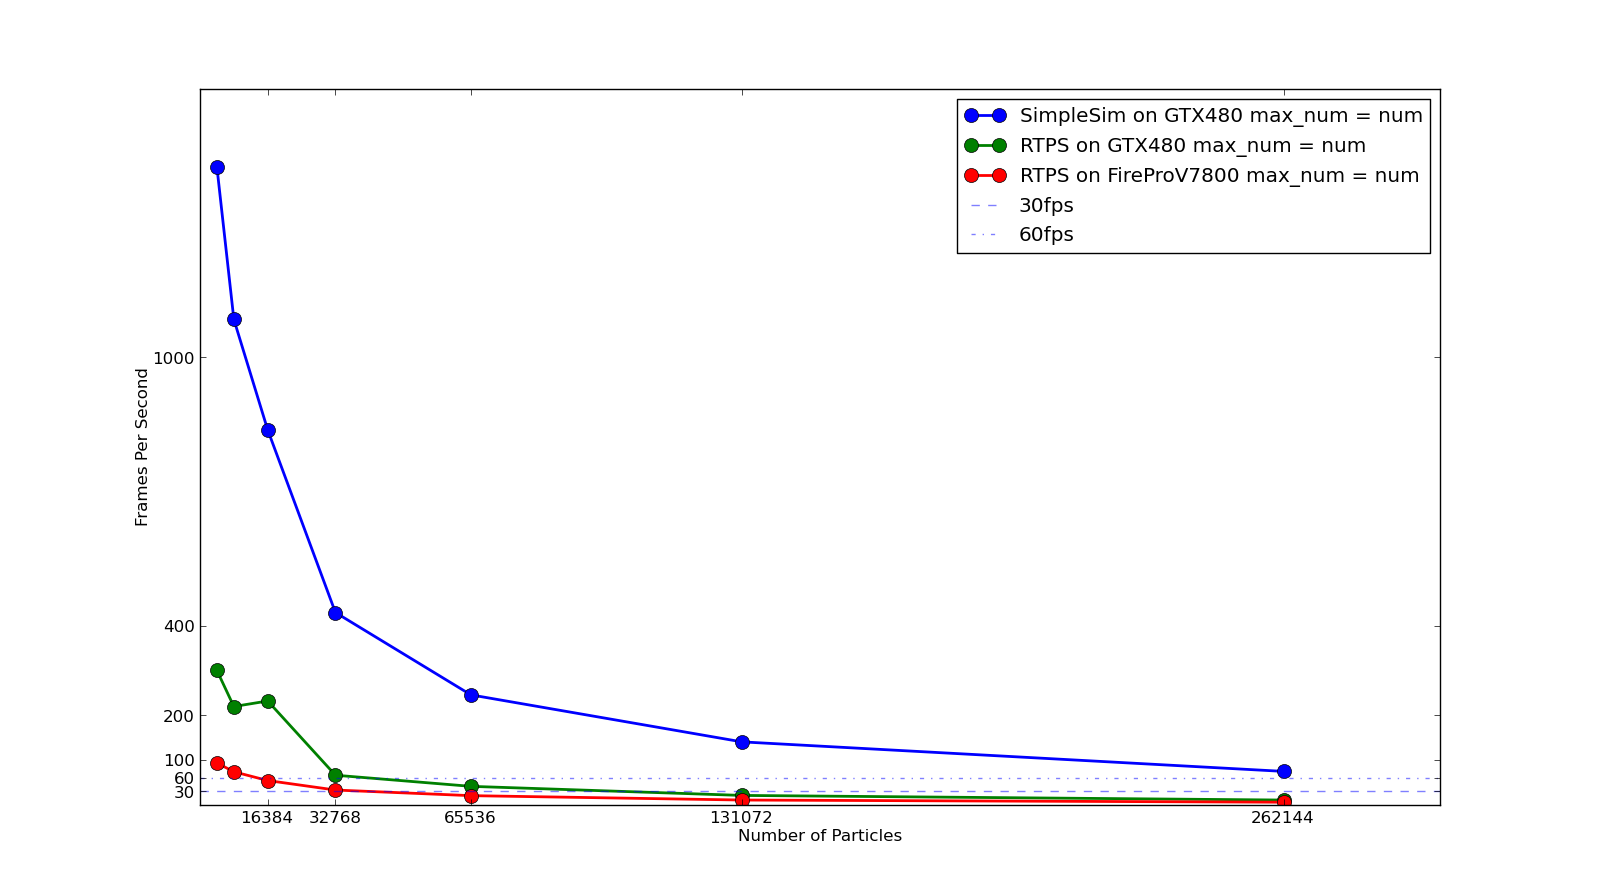
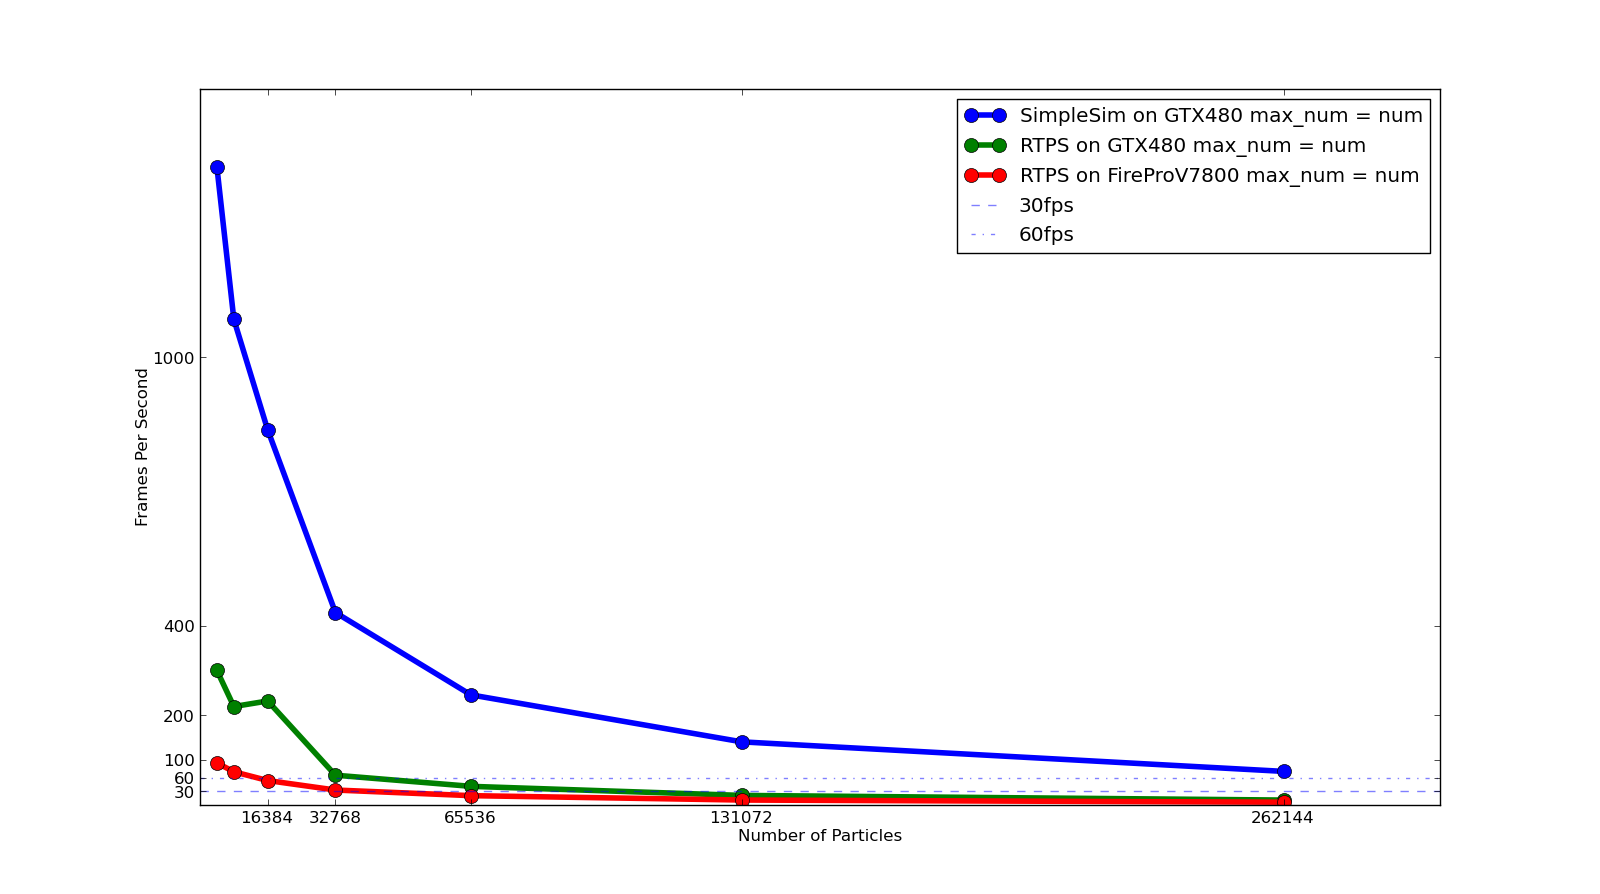
illustrative examples upgrade

diff --git a/fsutemplate/chapter_results.tex b/fsutemplate/chapter_results.tex
@@ -32,21 +32,22 @@ timings, when using fps a higher number is desirable while when measuring in
 milliseconds a lower number is preferred.
 
 \pagebreak
+\clearpage
 
 \begin{figure}[!htc]
  		\centering
-        \subfloat[maximum number of particles equal to number of particles]{\label{fig:fps_num}\includegraphics[scale=0.4]{figures/maxnum_eq_num_fps.png}}
-        \\
-        \subfloat[maximum number of particles equal to 1 million]{\label{fig:fps_1mill}\includegraphics[scale=0.4]{figures/maxnum_eq_1mill_fps.png}}
-        \caption{Frame Rates}
-        \label{fig:fps}
+        \includegraphics[scale=0.45]{figures/maxnum_eq_num_fps.png}
+        \caption{ {\footnotesize Performance of RTPS compared with SimpleSim. Here the maximum
+        particle setting for RTPS is the same as the number of particles used
+        for timing}}
+        \label{fig:fps_num}
 \end{figure}
 
-\pagebreak
 
 For the timings in \ref{fig:fps_num} the only parameter varied is the maximum number of particles.
 For each case the maximum number of particles is emitted and the timing of each
 function call is averaged over 1000 iterations.
+
 
 One logical use scenario would involve setting a large maximum number of
 particles and only using a relatively small subset of them. This will make the
@@ -55,6 +56,17 @@ user to get a more detailed simulation. It turns out that this use case is much
 more efficient than setting the maximum number of particles to the amount to be
 used as can be seen in Figure \ref{fig:fps_1mill}.
 
+
+\begin{figure}[!htc]
+ 		\centering
+        \includegraphics[scale=0.45]{figures/maxnum_eq_1mill_fps.png}
+        \caption{ {\small Performance of RTPS with the maximum number of particles
+        setting equal to 1 million. The timings for RTPS are collected using
+        the given number of particles.}}
+        \label{fig:fps_1mill}
+\end{figure}
+
+\pagebreak
 One can see from Figure \ref{fig:kernel_time} that the Density and Force calculations are by far
 the most expensive routines. These routines have the most memory accesses, and
 the more neighbors that each particle must calculate the more memory accesses
@@ -89,6 +101,9 @@ for each card, with the sort contributing more on the AMD hardware.
         \caption{ Proportion of GPU timings for the most expensive kernels on each card }
         \label{fig:pies}
 \end{figure}
+
+\pagebreak
+\clearpage
 
 \section{Data Structures}
 The data structures used on the GPU are given as follows:
@@ -143,7 +158,7 @@ provided valuable feedback, crash reports and even demos.\footnote{ \url{http://
 
 \begin{figure}[!htc]
  		\centering
-		\includegraphics[scale=0.5]{figures/youtube.png}
+		\includegraphics[scale=0.75]{figures/youtube.png}
         \caption{ Artist demo }
 		\label{fig:mpan}
 \end{figure}
@@ -154,43 +169,82 @@ integration becomes tighter it is expected that more developers will be willing
 and able to help.
 
 \pagebreak
-\clearpage
+%\clearpage
 
-\section{Screen Shots}
+\section{Illustrative Examples}
 
-Selected screen shots of the Blender Game Engine with the RTPS library in action.
+The following figures demonstrate various possible simulations using the RTPS
+framework inside the Blender Game Engine. Figure \ref{fig:dam_break} shows a
+simple dam break simulation with collision against boxes inside the domain.
+Here relatively few particles are used and the simulation runs at 60fps.
 
+%\begin{figure}[H]
 \begin{figure}[!htc]
  		%\centering
-		\includegraphics[scale=0.17]{figures/dam_break.png}
-        \caption{ Dam break with 65k particles maximum }
+		\includegraphics[scale=0.4]{figures/dam_break.png}
+        \caption{ A Dam break simulation. The maximum number of particles is set to 65k.
+        Physical parameters are set as follows: Gravity = -9.8, Gas
+        Constant = 1.0, Viscosity = .001, Velocity Limit = 600, XSPH = .2}
 		\label{fig:dam_break}
 \end{figure}
 
 \pagebreak
+\clearpage
+
+Figures \ref{fig:flood1} and \ref{fig:flood2} show a water flooding simulation where
+over 100k particles are emitted through several hoses and then collide against
+cubes placed in the domain. The maximum number of particles was set to
+1,000,000 for a higher resolution simulation at the cost of real-time. This
+simulation averaged 10fps.
+
 
 \begin{figure}[!htc]
  		%\centering
-		\includegraphics[scale=0.17]{figures/flood1.png}
-        \caption{ 100k particles colliding with boxes. }
+		\includegraphics[scale=0.4]{figures/flood1.png}
+        \caption{ Flooding simulation, 100k particles emitted from hoses and
+        colliding with boxes. The maximum number of particles is set to
+        1,000,000. Physical parameters are set as follows: Gravity = -9.8, Gas
+        Constant = 1.0, Viscosity = .001, Velocity Limit = 600, XSPH = .05}
 		\label{fig:flood1}
 \end{figure}
 
 \pagebreak
+\clearpage
+
 \begin{figure}[!htc]
  		%\centering
-		\includegraphics[scale=0.17]{figures/flood2.png}
-        \caption{ 100k particles colliding with boxes. }
+		\includegraphics[scale=0.4]{figures/flood2.png}
+        \caption{ Later timestep in same flooding simulation as Figure \ref{fig:flood1} }
 		\label{fig:flood2}
 \end{figure}
 
 \pagebreak
 \clearpage
 
+Figure \ref{fig:viscous} shows a viscous fluid being emitted from a hose. A
+high viscosity gives a more honey-like appearance and reduces waves and
+splashes in the fluid.
+
+\begin{figure}[!htc]
+ 		%\centering
+		\includegraphics[scale=0.4]{figures/viscous.png}
+        \caption{ Demonstrating the Hose emitter with high viscosity. The maximum number of particles is set to 100k.
+        Physical parameters are set as follows: Gravity = -9.8, Gas
+        Constant = 1.0, Viscosity = 1.0, Velocity Limit = 600, XSPH = .2}
+		\label{fig:viscous}
+\end{figure}
+
+\pagebreak
+\clearpage
+
+
+
 \subsection{Videos}
 
 Videos have been recorded throughout the process of this research and are
-available on the web. These videos are listed in reverse chronological order
+available on the web. The videos serve as progress reports of the project
+throughout its development, each one highlighting new features or explaining
+design decisions made. These videos are listed in reverse chronological order
 from most recent to oldest. \\
 \url{http://vimeo.com/21743717} \\
 \url{http://vimeo.com/19794084} \\

diff --git a/fsutemplate/timings/graph.py b/fsutemplate/timings/graph.py
@@ -38,9 +38,9 @@ for ms in ati_mill_timings["Update loop"]:
     ati_mill_rtps_fps += [ms2fps(ms)]
 
 
-fps = False 
+fps = True 
 nv_kernel = False 
-nv_ati_neighbors = True 
+nv_ati_neighbors = False 
 nv_neighbors = False
 
 
@@ -50,9 +50,9 @@ if fps:
     fps_ticks = [30, 60, 100, 200, 400, 1000]
     krog_fps = [1424, 1084, 837, 429, 245, 140, 74]
     pylab.figure(0)
-    pylab.plot(nv_nums, krog_fps, 'o-', linewidth=2, markersize=10, label='SimpleSim on GTX480 max_num = num')
-    pylab.plot(nv_nums, nv_rtps_fps, 'o-', linewidth=2, markersize=10, label='RTPS on GTX480 max_num = num')
-    pylab.plot(nv_nums, ati_rtps_fps, 'o-', linewidth=2, markersize=10, label='RTPS on FireProV7800 max_num = num')
+    pylab.plot(nv_nums, krog_fps, 'o-', linewidth=4, markersize=10, label='SimpleSim on GTX480 max_num = num')
+    pylab.plot(nv_nums, nv_rtps_fps, 'o-', linewidth=4, markersize=10, label='RTPS on GTX480 max_num = num')
+    pylab.plot(nv_nums, ati_rtps_fps, 'o-', linewidth=4, markersize=10, label='RTPS on FireProV7800 max_num = num')
 
     pylab.axhline(30, linestyle='--', alpha=.5, label='30fps')
     pylab.axhline(60, linestyle='-.', alpha=.5, label='60fps')
